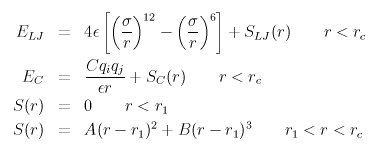
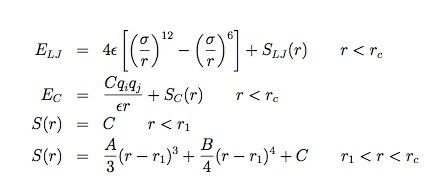
Fixed error in lj/gromacs
git-svn-id: svn://svn.icms.temple.edu/lammps-ro/trunk@6819 f3b2605a-c512-4ea7-a41b-209d697bcdaa

diff --git a/doc/pair_gromacs.html b/doc/pair_gromacs.html
@@ -42,23 +42,24 @@ pair_coeff * * 100.0 2.0
 </PRE>
 <P><B>Description:</B>
 </P>
-<P>The <I>lj/gromacs</I> styles compute LJ and Coulombic interactions with an
-additional switching function S(r) that ramps the energy and force
+<P>The <I>lj/gromacs</I> styles compute shifted LJ and Coulombic interactions 
+with an additional switching function S(r) that ramps the energy and force
 smoothly to zero between an inner and outer cutoff.  It is a commonly
 used potential in the <A HREF = "http://www.gromacs.org">GROMACS</A> MD code and for
 the coarse-grained models of <A HREF = "#Marrink">(Marrink)</A>.
 </P>
 <CENTER><IMG SRC = "Eqs/pair_gromacs.jpg">
 </CENTER>
-<P>R1 is the inner cutoff; Rc is the outer cutoff.  The coefficients A
-and B are computed by LAMMPS to perform the smoothing.  The function
+<P>R1 is the inner cutoff; Rc is the outer cutoff.  The coefficients A, B, 
+and C are computed by LAMMPS to perform the shifting and smoothing.  
+The function
 S(r) is actually applied once to each term of the LJ formula and once
-to the Coulombic formula, so there are 2 or 3 sets of A,B coefficients
+to the Coulombic formula, so there are 2 or 3 sets of A,B,C coefficients
 depending on which pair_style is used.  The boundary conditions
 applied to the smoothing function are as follows: S(r1) = S'(r1) = 0,
-S(rc) = -F(rc), S'(rc) = -F'(rc), where F(r) is the correpsonding term
-in the LJ or Coulombic function and a single quote represents a
-derivative with respect to r.
+S(rc) = -F(rc), S'(rc) = -F'(rc), where F(r) is the corresponding term
+in the LJ or Coulombic potential energy function and a 
+single quote represents a derivative with respect to r.
 </P>
 <P>The inner and outer cutoff for the LJ and Coulombic terms can be the
 same or different depending on whether 2 or 4 arguments are used in

diff --git a/doc/Eqs/pair_gromacs.tex b/doc/Eqs/pair_gromacs.tex
@@ -7,8 +7,8 @@ E_{LJ} & = & 4 \epsilon \left[ \left(\frac{\sigma}{r}\right)^{12} -
                        \left(\frac{\sigma}{r}\right)^6 \right] + S_{LJ}(r)
                        \qquad r < r_c \\
 E_C & = & \frac{C q_i q_j}{\epsilon  r} + S_C(r) \qquad r < r_c \\
-S(r) & = & 0 \qquad r < r_1 \\
-S(r) & = & A (r - r_1)^2 + B (r - r_1)^3 \qquad  r_1 < r < r_c
+S(r) & = & C \qquad r < r_1 \\
+S(r) & = & \frac{A}{3} (r - r_1)^3 + \frac{B}{4} (r - r_1)^4 + C \qquad  r_1 < r < r_c
 \end{eqnarray*}                           
 
 \end{document}
